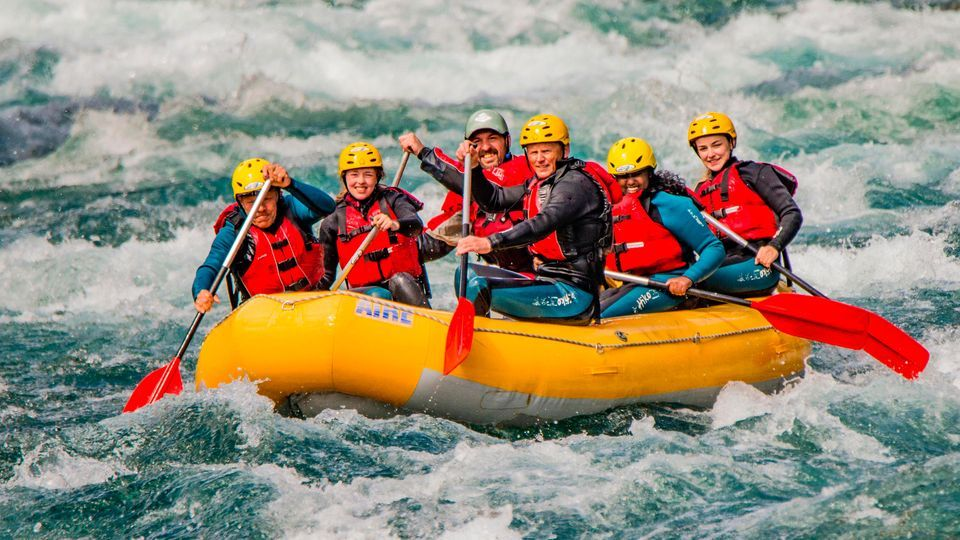
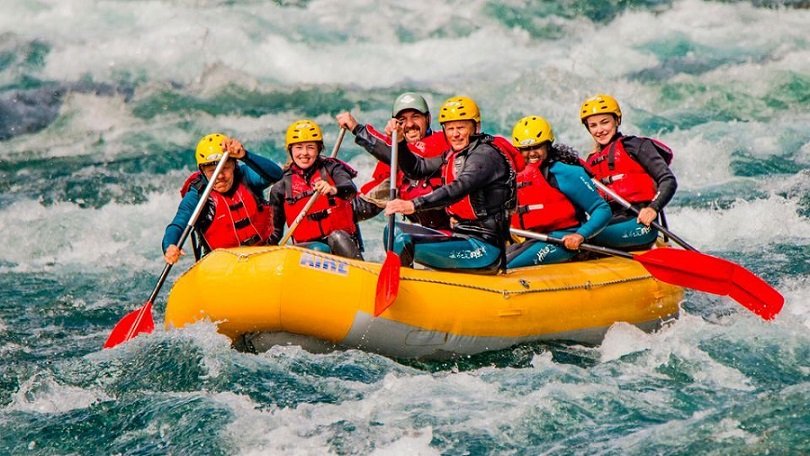
w3raftingsite

Changed region(s): [[0.5556, 0.5526, 0.5864, 0.5833], [0.5556, 0.4912, 0.5864, 0.5219]]

diff --git a/wwr/styles/rafting.css b/wwr/styles/rafting.css
@@ -41,8 +41,9 @@ nav, p, section, article{
   padding: 8px;
 }
 
-.socialmedia a {
+.socialmedia a{
   text-decoration: none;
+  
 }
 
 
@@ -69,13 +70,14 @@ h1{
 }
 
 article{
-  display: block;
-  top: 20px;
+  position:absolute;
+  display: inline;
+  top: 260px;
   width: 100%;
   padding: 16px;
   text-align:center;
   font-weight: bold;
-  opacity: 0.7;
+  opacity: 0.8;
   background-color: var(--color-accent-2);
   color: rgb(13, 121, 85);
 }
@@ -99,7 +101,7 @@ h2{
 
 }
 
-.socialmedia{
+.socialmedia {
   display: flex;           
   gap: 10px;               
   align-items: center;      

diff --git a/wwr/about.html b/wwr/about.html
@@ -30,8 +30,8 @@
     </header>
     <main>
         <div class="hero">
-            <img src="images/raft.webp" alt="Panoramic View of a rafting group">
-            <h1> ThunderFalls White Water</h1>
+            <img src="images/raftinggroup.jpg" alt="Panoramic View of a rafting group">
+            <h1> About Us - ThunderFalls White Water</h1>
             <article>
                 <img src="images/raft-staff.jpg" alt="Staff working">
                 <p>We are a company with over 12 years of experience guiding safe and memorable whitewater adventures.
